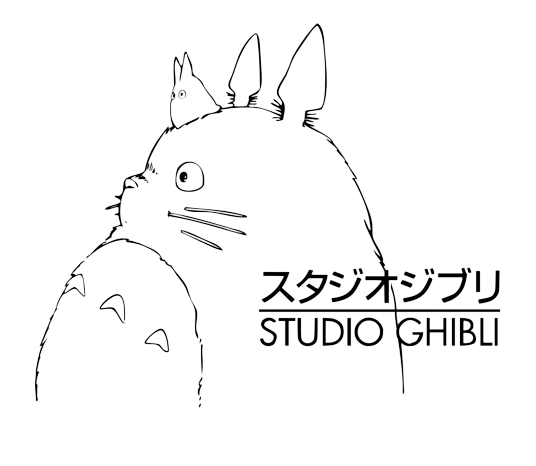
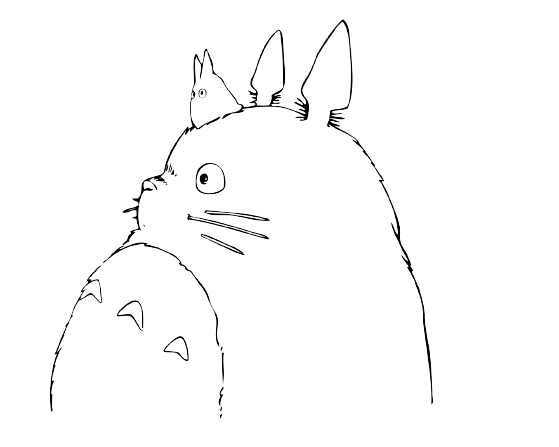
Estilizaçãi final

diff --git a/src/css/index.css b/src/css/index.css
@@ -1,6 +1,6 @@
 body {
   overflow: hidden;
-  background-color: #ececec;
+  background-image: linear-gradient( to right, #bddaec, #bddaec, #fff, #fff );
 }
 
 nav {
@@ -9,9 +9,8 @@ nav {
   align-items: center;
 }
 
-.ghibli-lovers {
-  color: #008dda;
-  font-size: xx-large;
+.logo-sg {
+  height: 100px;
 }
 
 .menu-topo {
@@ -19,22 +18,22 @@ nav {
 }
 
 .menu-topo ul li a {
-    color: #000;
+  color: #000;
 }
 
 .menu-topo ul li a:hover {
-    color: #33a4e1;
+  color: #33a4e1;
 }
 
 .studio-ghibli-informacoes {
   float: left;
   display: flex;
-  align-items: center;
+  align-items: center; 
 }
 
 .studio-ghibli-informacoes section {
-  max-width: 400px;
-  max-height: 400px;
+  max-width: 440px;
+  max-height: 440px;
 }
 
 .inclinacao {
@@ -52,6 +51,7 @@ figure {
   right: 10vw;
   bottom: 0;
 }
+
 .inclinacao-azul-escura {
   border-top: 80vh solid transparent;
   border-right: 60vw solid #008dda;

diff --git a/src/css/global.css b/src/css/global.css
@@ -86,7 +86,6 @@ header {
 .grupo-radio .grupo-input-radio:last-child {
   margin-right: 0;
 }
-
 /* Aqui acaba o menu de filtros  */
 
 /* Aqui começa a barra de pesquisa */
@@ -114,7 +113,6 @@ header {
   margin: 20px 0;
   border: 2px solid rgba(0, 141, 218, 0.8);
 }
-
 /* Aqui termina a barra de pesquisa */
 
 /* Cartões */
@@ -163,16 +161,16 @@ header {
   align-items: center;
   justify-content: center;
   margin: auto;
+  padding: 0 3px;
   border: #047493 solid 1px;
   border-radius: 8px;
   font-weight: bold;
   color: white;
+  background-color: rgba(56,114,141, 0.8);
 }
-
 /* Fim cartões */
 
 /* Footer */
-
 footer {
   background: #008dda;
   display: flex;
@@ -209,5 +207,4 @@ footer p {
 .sobre-mim p {
   color: #fff;
 }
-
 /* Aqui acaba o footer */

diff --git a/src/index.html b/src/index.html
@@ -16,7 +16,7 @@
 <body>
     <nav class="menu-topo">
         <a href="https://www.ghibli.jp/" target="_blank">
-            <p class="ghibli-lovers">GHIBLI LOVERS</p>
+            <img class="logo-sg" src="./images//logo-sg.png" alt="Logo Studio Ghibli">
         </a>
 
         <ul>
@@ -28,7 +28,7 @@
     <main>
         <div class="imagem-inclinada">
             <figure>
-                <img src="./images/totoro-inicial.png" alt="Totoro">
+                <img class="img-inicial-totoro" src="./images/totoro-inicial.png" alt="Totoro">
             </figure>
             <div class="inclinacao inclinacao-azul-clara"></div>
             <div class="inclinacao inclinacao-azul-escura"></div>

diff --git a/src/css/personagens.css b/src/css/personagens.css
@@ -11,6 +11,9 @@
     margin-bottom: -20px;
 }
 
+.img-inicial-totoro {
+}
+
 .seletores, .radios {
     display: flex;
     justify-content: space-around;
